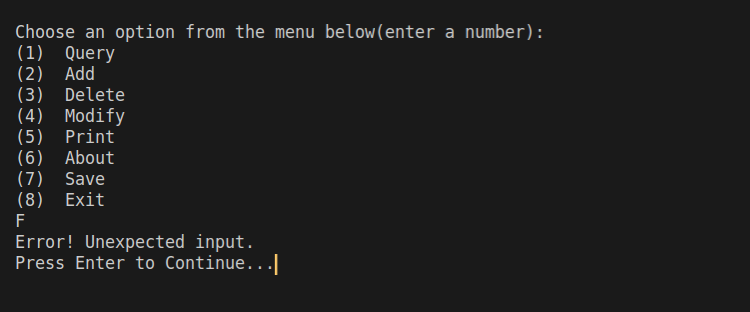
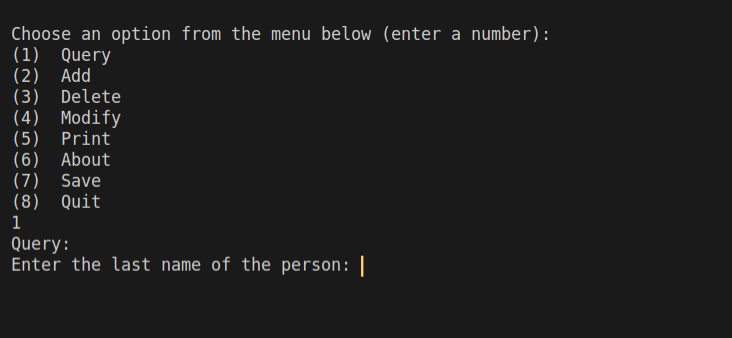
Added Delete func in the report

Changed region(s): [[0.0, 0.0577, 0.7514, 0.8942]]

diff --git a/phonebook.c b/phonebook.c
@@ -108,22 +108,13 @@ void query()
     {
         if (strcmp(searchTerm, contacts[i].lastName) == 0)
         {
-            printf("%s, ", contacts[i].lastName);
-            printf("%s, ", contacts[i].firstName);
-            printf("%d-%d-%d, ",
-                   contacts[i].date.day,
-                   contacts[i].date.month,
-                   contacts[i].date.year);
-            printf("%s, ", contacts[i].address);
-            printf("%s, ", contacts[i].number);
-            printf("%s\n", contacts[i].email);
+            printOneContact(contacts, i);
             found = true;
         }
     }
     if (!found)
-    {
         error("Person not found!\n");
-    }
+    
 }
 
 void add()

diff --git a/README.md b/README.md
@@ -30,8 +30,12 @@
     - [Add](#add-1)
       - [Code:](#code-4)
       - [Sample Runs:](#sample-runs-1)
-    - [Print](#print-1)
+    - [Delete](#delete-1)
       - [Code:](#code-5)
+      - [Sample Runs:](#sample-runs-2)
+    - [Modify](#modify-1)
+    - [Print](#print-1)
+      - [Code:](#code-6)
       - [Sample Run:](#sample-run-1)
 
 
@@ -89,7 +93,6 @@ int main()
 
 ### Structs and Global variables:
 
-
 ```C
 // Constants
 #define MAXSTRING 100
@@ -127,7 +130,7 @@ int k = 0;
 ```
 
 ### Menu
-This is the most important function as it helps the user navigate through the program with ease. It starts of by clearing the screen and then it renders a menu where the user can choose from several options. It Checks for invalid input 
+This is the most important function as it helps the user navigate through the program with ease. It starts of by clearing the screen and then it renders a menu where the user can choose from several options. It also Checks for invalid input.
 
 #### Code:
 ```C
@@ -135,7 +138,7 @@ void menu()
 {
     system("@cls||clear"); // clears the screen
     char input[10];
-    char menuItems[8][MAXSTRING] = {"Query", "Add", "Delete", "Modify", "Print", "About", "Save", "Exit"};
+    char menuItems[8][MAXSTRING] = {"Query", "Add", "Delete", "Modify", "Print", "About", "Save", "Quit"};
     int menuSize = sizeof(menuItems) / sizeof(menuItems[0]);
     printf("\nChoose an option from the menu below (enter a number):\n");
     for (i = 0; i < menuSize; i++)
@@ -189,10 +192,12 @@ void menu()
 #### Sample Runs:
 ![code-run](img/menu1.png "Code Run")
 
+**Error Handling**
+
 ![code-run](img/menu2.png "Code Run")
 
 ### Load
-This functions reads all the contacts from a file and stores them in a global array of Contacts. 
+This functions reads all the contacts from a file and stores them in a global array of type Contact. 
 #### Code:
 ```C
 void load()
@@ -223,7 +228,8 @@ void load()
 ```
 
 ### Query
-This functions asks the user for last name of the contacts he is searching for and prints all matching results.
+This functions asks the user for last name of the contacts he is searching for and prints all matching results. It uses a function called [`printOneContact()`](#printOneContact) to print the contact or contacts found
+> Note: You can click on the function name to reference its details.
 #### Code:
 ```C
 void query()
@@ -237,26 +243,18 @@ void query()
     {
         if (strcmp(searchTerm, contacts[i].lastName) == 0)
         {
-            printf("%s, ", contacts[i].lastName);
-            printf("%s, ", contacts[i].firstName);
-            printf("%d-%d-%d, ",
-                   contacts[i].date.day,
-                   contacts[i].date.month,
-                   contacts[i].date.year);
-            printf("%s, ", contacts[i].address);
-            printf("%s, ", contacts[i].number);
-            printf("%s\n", contacts[i].email);
+            printOneContact(contacts, i);
             found = true;
         }
     }
     if (!found)
-    {
         error("Person not found!\n");
-    }
+    
 }
 ```
 #### Sample Run:
-![Query sample run](img/query.png "Query sample run")
+![Query sample run](img/query1.png "Query sample run")
+![Query sample run](img/query2.png "Query sample run")
 
 ### Add
 This Function adds a contact to the phone book it asks the user for last name, first name, date of birth formatted as (dd-mm-yyyy), address, phone number, and email address. When the contact is added successfully it asks the user it he wants to add another one. 
@@ -281,7 +279,8 @@ void add()
     {
         printf("Enter Birth Day (dd-mm-yyyy): ");
         scanf("%99s", date);
-    } while (!validDate(date));
+
+    } while (!validDate(date, Count));
 
     do
     {
@@ -303,18 +302,83 @@ void add()
     scanf("%s", input);
 
     if (strcmp(input, "y") != 0 && strcmp(input, "n") != 0)
-        printf("\nError! Unexpected input %s.\n", input);
+        error("\nError! Unexpected input \n");
 
     if (strcmp(input, "y") == 0)
         add();
 }
 ```
 #### Sample Runs:
+
+**Handing various errors**
+
 ![add sample run](img/add.png)
+
+### Delete
+This function asks the user for the last and first name of the contact he wants to delete and delete all matching contacts. It achieves that by copying all the contacts that won't be deleted into a new array of contacts and updates the main global array of contacts and the global count for contacts
+ In addition, It prints all deleted contacts so the user can get good indication that the contact is deleted. It gets help from [`printContacts()`](#printContact) function with prints all the contacts in the array. Also it gives error it the contact is not found.
+> Note: You can click on the function name to reference it.
+#### Code:
+```C
+void deleteContact()
+{
+    char lastName[MAXSTRING];
+    char firstName[MAXSTRING];
+
+    Contact newContacts[Count];
+    Contact deletedContacts[Count];
+    int deletedCount = 0;
+    int newCount = 0;
+    printf("Enter the last name of the contact you want to delete: ");
+    scanf("%s", lastName);
+    printf("Enter the first name of the contact you want to delete: ");
+    scanf("%s", firstName);
+
+    // copies all contacts into new array
+    for (i = 0; i < Count; i++)
+    {
+        if (strcmp(contacts[i].lastName, lastName) ||
+            strcmp(contacts[i].firstName, firstName))
+        {
+            newContacts[newCount] = contacts[i];
+            newCount++;
+        }
+        else
+        {
+            deletedContacts[deletedCount] = contacts[i];
+            deletedCount++;
+        }
+    }
+
+    if (newCount != Count)
+    {
+        for (i = 0; i < Count; i++)
+            contacts[i] = newContacts[i];
+        Count = newCount;
+
+        printf("\nDeleted Contacts: ");
+        printContacts(deletedContacts, deletedCount);
+        success("Contacts deleted successfully.\n");
+    }
+    else
+        error("\nError! contact not found.");
+}
+```
+#### Sample Runs:
+
+![Delete](img/delete1.png)
+
+In case of the contact not found:
+
+![Delete](img/delete2.png)
+
+### Modify
+This function asks the user for the last name he wants to modify and searches for it. if it found one contact it lets the user modify it directly and prints the contact information but if it founds more than one contact it shows a menu where the user chooses which contact he want to modify
 
 ### Print
 It prints a menu where the user can choose from printing contacts normally, sorted by last name, or sorted by date of birth. It validates user input
 #### Code:
+
 ```C
 void printMenu()
 {
@@ -363,3 +427,11 @@ void printMenu()
 **Error Handling**
 
 ![print sample run](img/printError.png)
+
+
+Save
+This function saves all the information of all the contacts in a file. It simply writes all what is inside the global array of Contacts into the same file used in Load() function.
+Quit 
+This function simply allows the user to quit from the program if he/she wants. It first displays a warning message if any modification is done on the global array of Contacts and that modification isn’t saved. If that modification is saved before entering the Quit() function, then no warning message will be displayed. If no modification occurred at all, then again no warning message will be displayed. Then the user is asked “Are you sure you want to quit(y/n)?”. The function keeps asking the user to enter a valid input if the input isn’t “y” or “n”. If “y”, the program ends. If “n”, the program will return to Menu() function.
+Sort by last name
+This function sorts the global array of Contacts by last name with the help of the built-in function qsort(). qsort() itself needs a helping function. So, compareNames() function is that helping function.  The role of compareNames() function is to compare two items and return an integer value less than zero if the first item is less than second item , return zero if both items are equal, or return an integer value more than zero if the first item is greater than second item.
